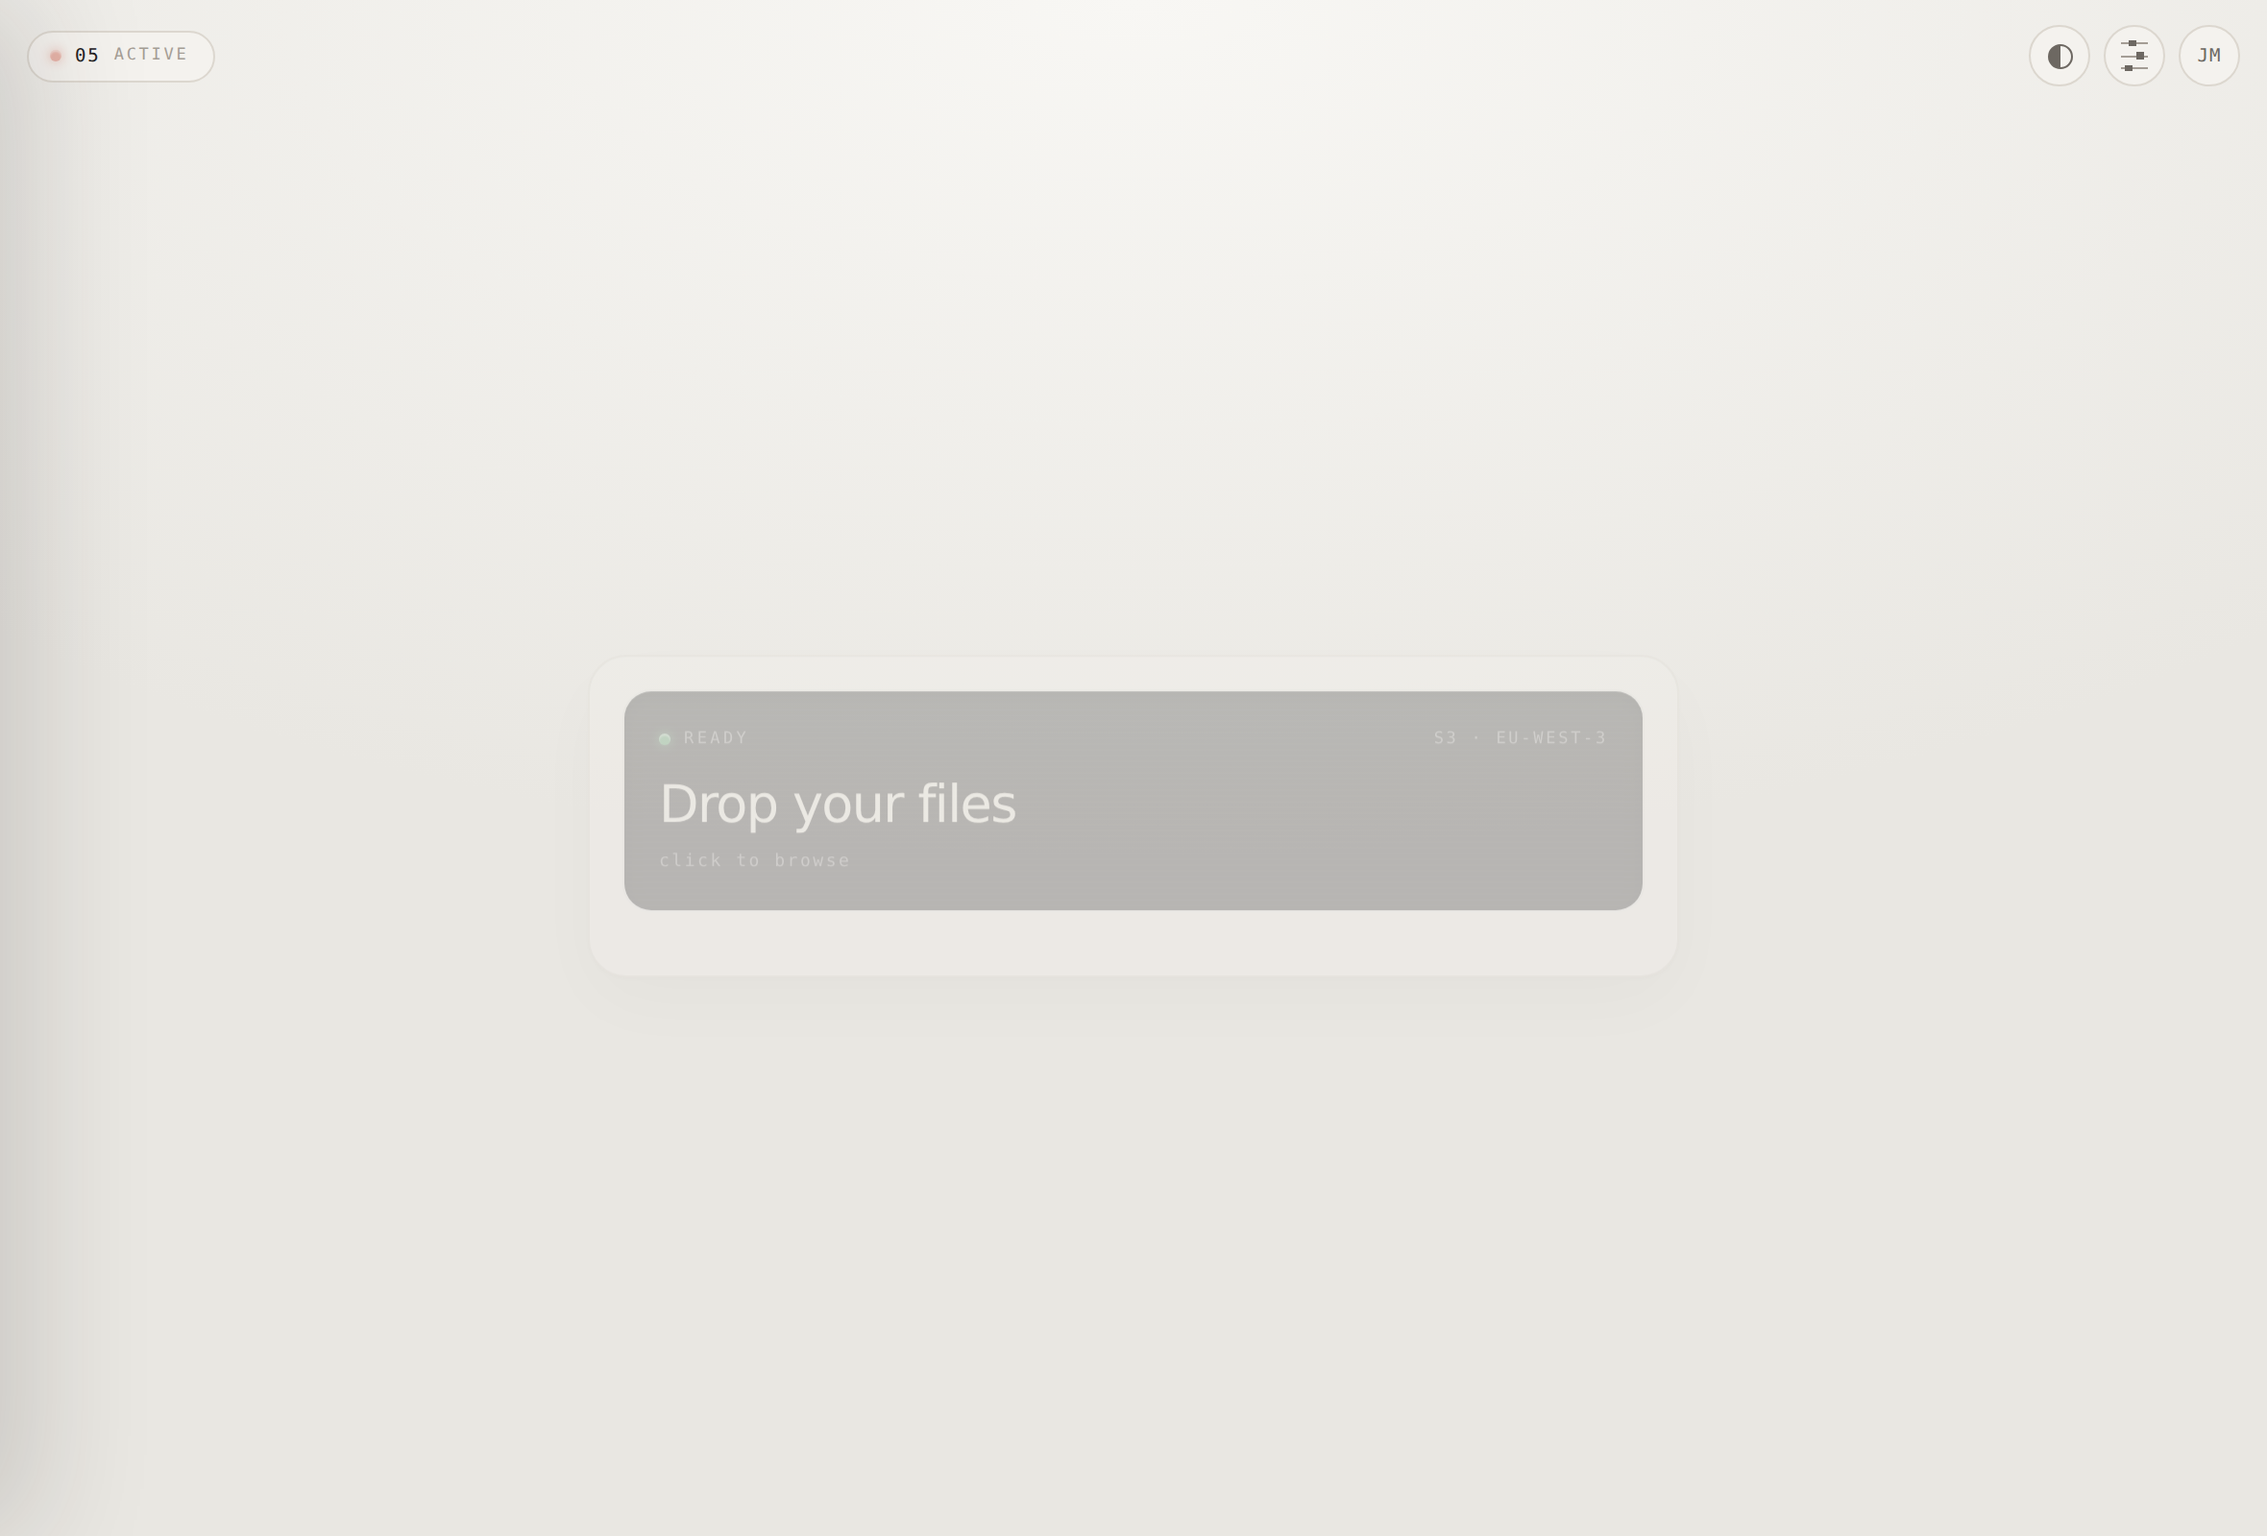
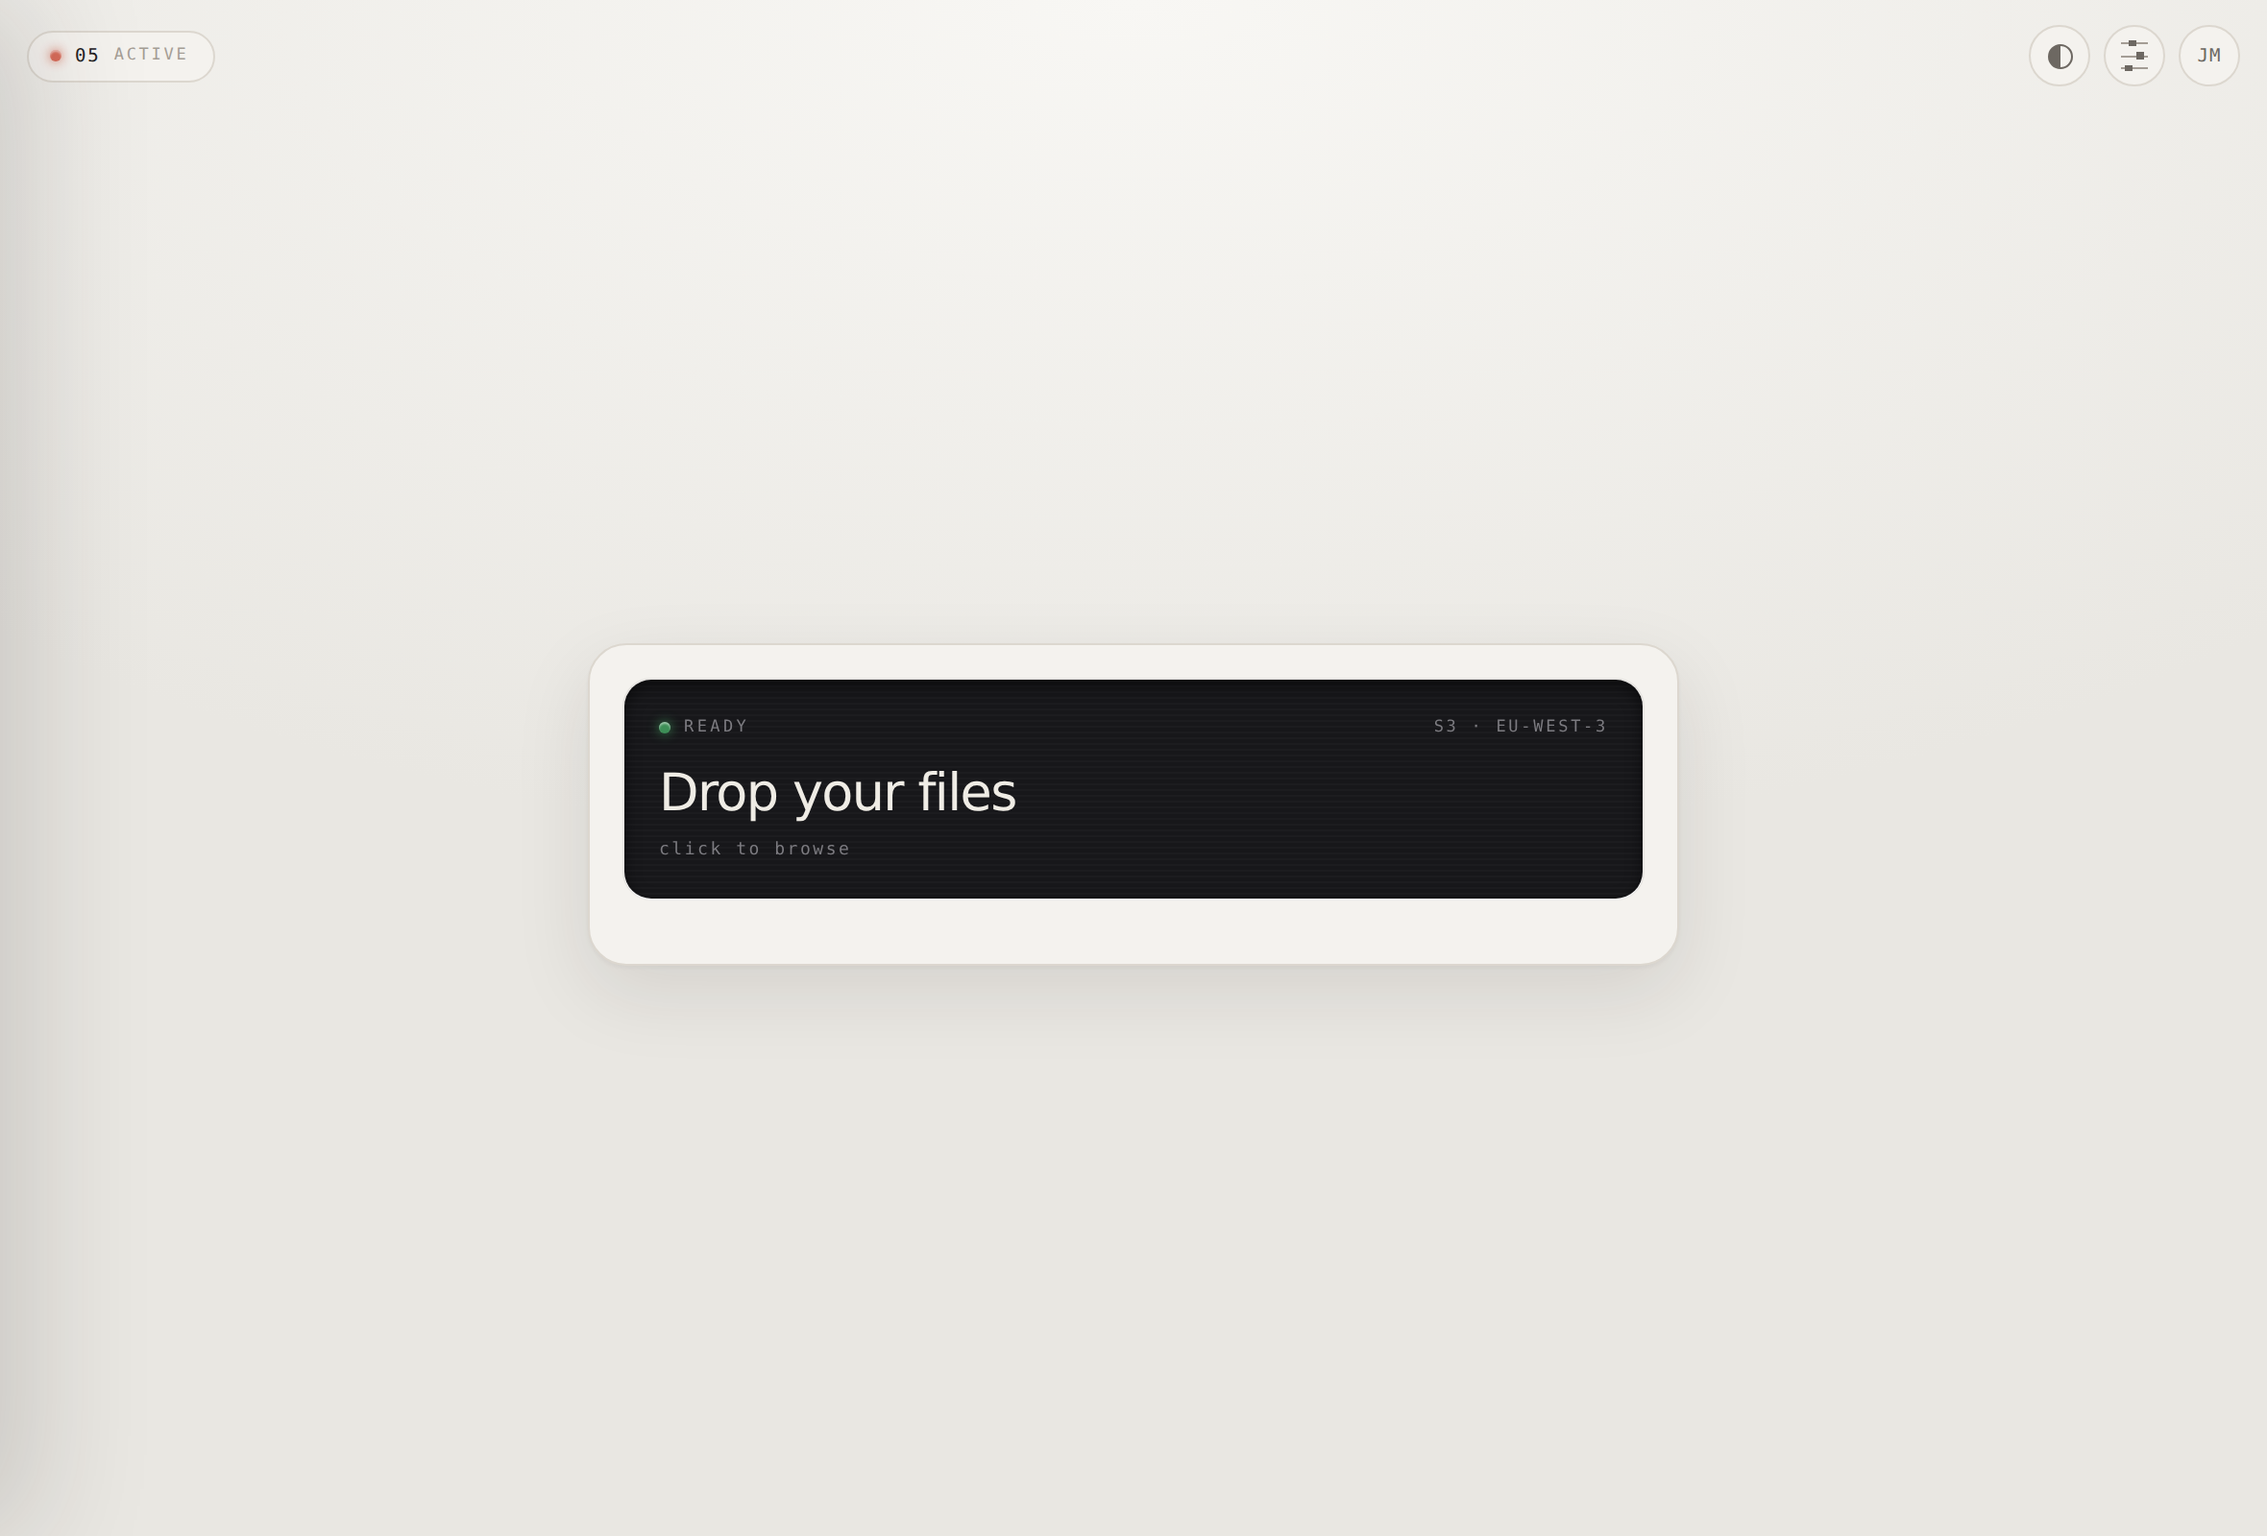
Warm the restore tag, and hold the row action that opened the modal
The tag read as an incident report: "the link you sent no longer works" states
the loss and nothing else. It now says what is true and useful instead — the
previous link is still reserved for you — which is friendlier and also the
more accurate of the two, since the name is genuinely held against the
transfer rather than merely remembered.

The kraft is textured rather than flat: two crosshatched gradients at
deliberately odd angles, so the weave never lines up with the pixel grid and
moirés, over a soft vertical shade with a cut-edge highlight along the top. No
image, in keeping with the rest of the interface. The type is letterpressed
with a 1px highlight directly beneath each glyph, which only works because the
surface is mid-toned — the same treatment on the off-white body would be
invisible, so it lives here and nowhere else.

The row action that opened the modal now stays pressed: recessed fill and
inset shadow, the treatment a key gets on :active, except that this one holds.
It answers the question a modal always raises, which is where it came from.

Pressing Delete on a row also opens its confirmation already armed. It opened
the same modal before but showed a plain form, so the button did not appear to
have done what it said.

Claude-Session: https://claude.ai/code/session_01LryLGAjAdFVuFEJgP2dnQj

Changed region(s): [[0.2784, 0.4375, 0.7424, 0.5938]]

diff --git a/web/src/components/TransfersSheet.tsx b/web/src/components/TransfersSheet.tsx
@@ -14,12 +14,19 @@ type Filter = 'all' | 'expiring' | 'locked'
 /** Past this many pixels of downward drag, the mobile sheet dismisses. */
 const DISMISS_AFTER = 70
 
+/** Which row action is currently held open, so its cell can read as pressed. */
+export interface EngagedAction {
+  id: string
+  action: 'edit' | 'delete'
+}
+
 interface SheetProps {
   open: boolean
   locale: Locale
   transfers: TransferSummary[]
   storageUsed: number
   publicHost: string
+  engaged: EngagedAction | null
   onClose: () => void
   onCopy: (slug: string) => void
   onEdit: (transfer: TransferSummary) => void
@@ -32,6 +39,7 @@ export function TransfersSheet({
   locale,
   transfers,
   storageUsed,
+  engaged,
   onClose,
   onCopy,
   onEdit,
@@ -202,6 +210,7 @@ export function TransfersSheet({
                   key={transfer.id}
                   transfer={transfer}
                   locale={locale}
+                  engaged={engaged?.id === transfer.id ? engaged.action : null}
                   open={openRow === transfer.id}
                   interactive={open}
                   onToggle={() => setOpenRow(openRow === transfer.id ? null : transfer.id)}
@@ -231,6 +240,7 @@ function Stat({ value, label }: { value: string; label: string }) {
 function Row({
   transfer,
   locale,
+  engaged,
   open,
   interactive,
   onToggle,
@@ -241,6 +251,7 @@ function Row({
 }: {
   transfer: TransferSummary
   locale: Locale
+  engaged: 'edit' | 'delete' | null
   open: boolean
   interactive: boolean
   onToggle: () => void
@@ -298,9 +309,20 @@ function Row({
       <div className={`fret-rowactions${open ? ' fret-rowactions--open' : ''}`}>
         <div className="fret-rowactions__strip">
           <Action label={t('action.copy')} onClick={onCopy} tabIndex={open ? tab : -1} />
-          <Action label={t('action.edit')} onClick={onEdit} tabIndex={open ? tab : -1} />
+          <Action
+            label={t('action.edit')}
+            onClick={onEdit}
+            engaged={engaged === 'edit'}
+            tabIndex={open ? tab : -1}
+          />
           <Action label={t('action.open')} onClick={onOpen} tabIndex={open ? tab : -1} />
-          <Action label={t('action.delete')} onClick={onDelete} danger tabIndex={open ? tab : -1} />
+          <Action
+            label={t('action.delete')}
+            onClick={onDelete}
+            engaged={engaged === 'delete'}
+            danger
+            tabIndex={open ? tab : -1}
+          />
         </div>
       </div>
     </div>
@@ -311,18 +333,29 @@ function Action({
   label,
   onClick,
   danger,
+  engaged,
   tabIndex,
 }: {
   label: string
   onClick: () => void
   danger?: boolean
+  /** True while the surface this opens is still open. */
+  engaged?: boolean
   tabIndex?: number
 }) {
+  const classes = [
+    'fret-rowaction',
+    danger && 'fret-rowaction--danger',
+    engaged && 'fret-rowaction--engaged',
+  ]
+    .filter(Boolean)
+    .join(' ')
   return (
     <button
       type="button"
-      className={`fret-rowaction${danger ? ' fret-rowaction--danger' : ''}`}
+      className={classes}
       onClick={onClick}
+      aria-expanded={engaged === undefined ? undefined : engaged}
       tabIndex={tabIndex}
     >
       {label}

diff --git a/web/src/styles/device.css b/web/src/styles/device.css
@@ -422,15 +422,60 @@
   right: 22px;
   top: 100%;
   z-index: 1;
-  background: var(--tag);
+  background-color: var(--tag);
   border: 1px solid var(--tagEdge);
   border-top: none;
   border-radius: 0 0 13px 13px;
+  /*
+   * Paper fibre, built the way every other mark in Fret is: no image, just
+   * two crosshatched gradients at deliberately odd angles so the weave never
+   * lines up with the pixel grid and moirés, over a soft vertical shade. The
+   * inset highlight along the top edge is the light catching a cut edge.
+   */
+  background-image:
+    repeating-linear-gradient(37deg, rgba(255, 255, 255, 0.055) 0 1px, transparent 1px 3px),
+    repeating-linear-gradient(115deg, rgba(60, 40, 12, 0.045) 0 1px, transparent 1px 4px),
+    linear-gradient(180deg, rgba(255, 255, 255, 0.1), rgba(60, 40, 12, 0.06));
+  box-shadow:
+    inset 0 1px 0 rgba(255, 255, 255, 0.3),
+    0 6px 14px rgba(35, 33, 31, 0.13);
   /* Sits entirely behind the panel until it is called for. */
   transform: translateY(-100%);
   opacity: 0;
   pointer-events: none;
   transition: transform 0.42s cubic-bezier(0.4, 1.2, 0.5, 1), opacity 0.24s ease;
+}
+
+:root[data-theme='dark'] .fret-tag {
+  background-image:
+    repeating-linear-gradient(37deg, rgba(255, 255, 255, 0.035) 0 1px, transparent 1px 3px),
+    repeating-linear-gradient(115deg, rgba(0, 0, 0, 0.12) 0 1px, transparent 1px 4px),
+    linear-gradient(180deg, rgba(255, 255, 255, 0.05), rgba(0, 0, 0, 0.16));
+  box-shadow:
+    inset 0 1px 0 rgba(255, 255, 255, 0.09),
+    0 6px 16px rgba(0, 0, 0, 0.45);
+}
+
+/*
+ * Letterpress: a 1px highlight directly beneath each glyph, so the type reads
+ * as pressed into the card rather than printed on it. It only works because
+ * the surface is mid-toned — the same treatment on the off-white body would be
+ * invisible, which is why it lives here and nowhere else.
+ */
+.fret-tag__label,
+.fret-tag__slug,
+.fret-tag__note,
+.fret-tag__restore {
+  text-shadow: 0 1px 0 rgba(255, 255, 255, 0.32);
+}
+
+:root[data-theme='dark'] .fret-tag__label,
+:root[data-theme='dark'] .fret-tag__slug,
+:root[data-theme='dark'] .fret-tag__note,
+:root[data-theme='dark'] .fret-tag__restore {
+  /* Dark kraft is lit from the same side, but a white lift would glow; the
+     shadow goes down and dark instead, which reads as the same relief. */
+  text-shadow: 0 1px 0 rgba(0, 0, 0, 0.34);
 }
 
 .fret-tag--out {
@@ -483,9 +528,10 @@
 /* Flat, like every other control that is not a key. */
 .fret-tag__restore {
   flex-shrink: 0;
-  background: transparent;
+  background: rgba(255, 255, 255, 0.12);
   border: 1px solid var(--tagEdge);
   border-radius: 8px;
+  box-shadow: inset 0 1px 0 rgba(255, 255, 255, 0.34);
   padding: 7px 11px;
   font-family: var(--mono);
   font-size: 7.5px;
@@ -500,8 +546,13 @@
   background: rgba(255, 255, 255, 0.28);
 }
 
+:root[data-theme='dark'] .fret-tag__restore {
+  background: rgba(255, 255, 255, 0.05);
+  box-shadow: inset 0 1px 0 rgba(255, 255, 255, 0.08);
+}
+
 :root[data-theme='dark'] .fret-tag__restore:hover {
-  background: rgba(255, 255, 255, 0.09);
+  background: rgba(255, 255, 255, 0.11);
 }
 
 @media (max-width: 520px) {

diff --git a/web/src/App.tsx b/web/src/App.tsx
@@ -9,7 +9,7 @@
 import { useCallback, useEffect, useMemo, useState } from 'react'
 import { EditModal } from './components/EditModal'
 import { TopBar } from './components/TopBar'
-import { TransfersSheet } from './components/TransfersSheet'
+import { TransfersSheet, type EngagedAction } from './components/TransfersSheet'
 import { api, ApiError, type Me, type PublicConfig, type TransferSummary } from './lib/api'
 import { resolveLocale, translate, type Locale } from './lib/i18n'
 import { Recipient } from './screens/Recipient'
@@ -25,6 +25,8 @@ export function App() {
   const [storageUsed, setStorageUsed] = useState(0)
   const [sheetOpen, setSheetOpen] = useState(false)
   const [editing, setEditing] = useState<TransferSummary | null>(null)
+  // Which row action opened the modal, so that cell can stay visibly pressed.
+  const [engaged, setEngaged] = useState<EngagedAction | null>(null)
   /*
    * On a phone the modal replaces the sheet rather than stacking on it, and
    * the sheet comes back when the modal closes. Two stacked sheets never feel
@@ -135,14 +137,16 @@ export function App() {
     setPath(to)
   }, [])
 
-  const openEditor = (transfer: TransferSummary) => {
+  const openEditor = (transfer: TransferSummary, action: EngagedAction['action']) => {
     setSheetWasOpen(sheetOpen)
     if (narrow) setSheetOpen(false)
+    setEngaged({ id: transfer.id, action })
     setEditing(transfer)
   }
 
   const closeEditor = () => {
     setEditing(null)
+    setEngaged(null)
     if (narrow && sheetWasOpen) setSheetOpen(true)
   }
 
@@ -223,14 +227,15 @@ export function App() {
         transfers={transfers}
         storageUsed={storageUsed}
         publicHost={session.me.publicHost}
+        engaged={engaged}
         onClose={() => setSheetOpen(false)}
         onCopy={copyLink}
-        onEdit={openEditor}
+        onEdit={(transfer) => openEditor(transfer, 'edit')}
         onOpen={(target) => {
           setSheetOpen(false)
           navigate(`/${target}`)
         }}
-        onDelete={openEditor}
+        onDelete={(transfer) => openEditor(transfer, 'delete')}
       />
 
       {editing && (
@@ -238,6 +243,7 @@ export function App() {
           transfer={editing}
           locale={locale}
           besideSheet={sheetOpen && !narrow}
+          armDelete={engaged?.action === 'delete'}
           onClose={closeEditor}
           onSaved={refreshTransfers}
           onDeleted={refreshTransfers}

diff --git a/web/src/styles/sheet.css b/web/src/styles/sheet.css
@@ -399,13 +399,14 @@
   border: none;
   border-left: 1px solid var(--edge);
   padding: 13px 4px;
+  box-shadow: none;
   font-family: var(--mono);
   font-size: 8px;
   letter-spacing: 0.16em;
   text-transform: uppercase;
   color: var(--fg2);
   cursor: pointer;
-  transition: background 0.16s ease, color 0.16s ease;
+  transition: background 0.16s ease, color 0.16s ease, box-shadow 0.16s ease;
 }
 
 .fret-rowaction:first-child {
@@ -415,6 +416,28 @@
 .fret-rowaction:hover {
   background: var(--body);
   color: var(--fg);
+}
+
+/*
+ * Held down while the surface it opened is still open. The recessed fill and
+ * inset shadow are the same treatment a key gets on :active — the difference
+ * is that this one stays pressed, which is what tells you where the modal in
+ * front of you came from.
+ */
+.fret-rowaction--engaged,
+.fret-rowaction--engaged:hover {
+  background: var(--sunk);
+  box-shadow:
+    inset 0 2px 5px rgba(35, 33, 31, 0.2),
+    inset 0 -1px 0 rgba(255, 255, 255, 0.5);
+  color: var(--fg);
+}
+
+:root[data-theme='dark'] .fret-rowaction--engaged,
+:root[data-theme='dark'] .fret-rowaction--engaged:hover {
+  box-shadow:
+    inset 0 2px 6px rgba(0, 0, 0, 0.55),
+    inset 0 -1px 0 rgba(255, 255, 255, 0.04);
 }
 
 /* Delete keeps the accent it has everywhere else; nothing else in the strip

diff --git a/web/src/components/EditModal.tsx b/web/src/components/EditModal.tsx
@@ -18,6 +18,12 @@ interface EditModalProps {
   locale: Locale
   /** True while the transfers sheet is open beside it, on desktop. */
   besideSheet?: boolean
+  /**
+   * Opened from the row's Delete rather than its Edit, so the confirmation is
+   * already showing — otherwise pressing Delete would land you on a form with
+   * no sign of what you asked for.
+   */
+  armDelete?: boolean
   onClose: () => void
   onSaved: () => void
   onDeleted: () => void
@@ -27,6 +33,7 @@ export function EditModal({
   transfer,
   locale,
   besideSheet,
+  armDelete,
   onClose,
   onSaved,
   onDeleted,
@@ -40,7 +47,7 @@ export function EditModal({
   const [error, setError] = useState<string | null>(null)
   const [slugError, setSlugError] = useState<string | null>(null)
   const [saving, setSaving] = useState(false)
-  const [confirmDelete, setConfirmDelete] = useState(false)
+  const [confirmDelete, setConfirmDelete] = useState(Boolean(armDelete))
   const firstField = useRef<HTMLInputElement>(null)
 
   const t = (key: StringKey, vars?: Record<string, string | number>) =>

diff --git a/web/src/lib/i18n.ts b/web/src/lib/i18n.ts
@@ -39,9 +39,9 @@ const en = {
   'settings.passwordNone': 'none',
   'settings.passwordKept': 'unchanged',
 
-  'tag.sharedAs': 'SHARED AS',
+  'tag.sharedAs': 'PREVIOUS LINK',
   'tag.restore': 'RESTORE',
-  'tag.note': 'the link you sent no longer works',
+  'tag.note': 'still reserved for you',
 
   'key.waiting': 'Waiting for upload',
   'key.copied': 'Copied to clipboard',
@@ -156,9 +156,9 @@ const fr: Record<StringKey, string> = {
   'settings.passwordNone': 'aucun',
   'settings.passwordKept': 'inchangé',
 
-  'tag.sharedAs': 'PARTAGÉ SOUS',
+  'tag.sharedAs': 'LIEN PRÉCÉDENT',
   'tag.restore': 'RESTAURER',
-  'tag.note': 'le lien envoyé ne fonctionne plus',
+  'tag.note': 'toujours réservé pour vous',
 
   'key.waiting': "En attente de l'envoi",
   'key.copied': 'Copié',
